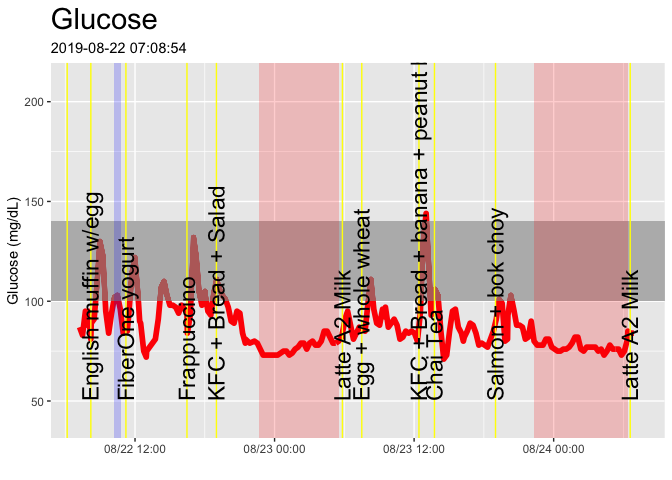
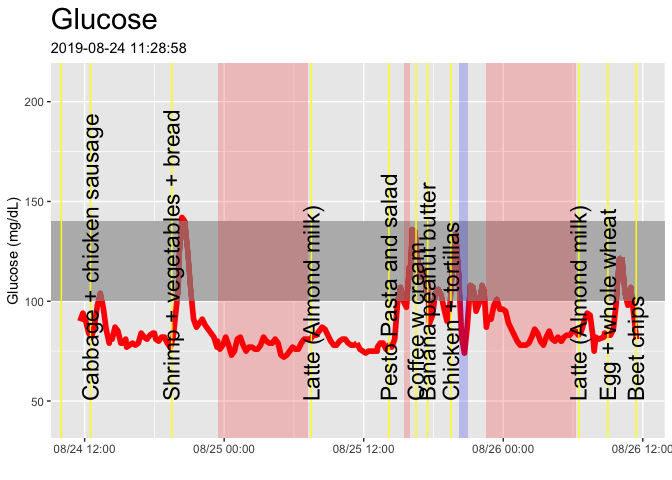
data for 2019-08-26

diff --git a/README.md b/README.md
@@ -1,7 +1,7 @@
 Continuous Glucose Monitoring with Freestyle Libre
 ================
 Richard Sprague
-2019-08-24
+2019-08-26
 
 See [Continous Glucose Monitoring: Start
 Here](http://richardsprague.com/notes/continuous-glucose-monitoring/)
@@ -164,7 +164,7 @@ glucose %>% filter(apply(sapply(glucose$time,
     ## ------------------------------------------------------------------------- 
     ## Describe . (tbl_df, tbl, data.frame):
     ## 
-    ## data.frame:  2752 obs. of  1 variables
+    ## data.frame:  2819 obs. of  1 variables
     ## 
     ##   Nr  ColName  Class    NAs  Levels
     ##   1   value    numeric  .          
@@ -174,14 +174,14 @@ glucose %>% filter(apply(sapply(glucose$time,
     ## Glucose Values While Sleeping
     ## 
     ##   length       n    NAs  unique     0s   mean  meanCI
-    ##    2'752   2'752      0      93      0  79.01   78.50
-    ##           100.0%   0.0%           0.0%          79.53
+    ##    2'819   2'819      0      93      0  79.10   78.59
+    ##           100.0%   0.0%           0.0%          79.60
     ##                                                      
     ##      .05     .10    .25  median    .75    .90     .95
-    ##    54.00   63.00  72.00   79.00  86.00  96.00  102.00
+    ##    55.00   63.00  72.50   79.00  86.00  96.00  102.00
     ##                                                      
     ##    range      sd  vcoef     mad    IQR   skew    kurt
-    ##   102.00   13.77   0.17   10.38  14.00   0.08    1.41
+    ##   102.00   13.68   0.17   10.38  13.50   0.08    1.46
     ##                                                      
     ## lowest : 40.0 (31), 41.0 (5), 42.0 (4), 43.0 (3), 44.0 (3)
     ## highest: 128.0, 129.0, 131.0 (2), 132.0 (2), 142.0
@@ -199,7 +199,7 @@ glucose %>% filter(apply(sapply(glucose$time,
     ## ------------------------------------------------------------------------- 
     ## Describe . (tbl_df, tbl, data.frame):
     ## 
-    ## data.frame:  10675 obs. of  1 variables
+    ## data.frame:  10898 obs. of  1 variables
     ## 
     ##   Nr  ColName  Class    NAs         Levels
     ##   1   value    numeric  115 (1.1%)        
@@ -209,14 +209,14 @@ glucose %>% filter(apply(sapply(glucose$time,
     ## Glucose Values While Awake
     ## 
     ##   length       n    NAs  unique      0s    mean  meanCI
-    ##   10'675  10'560    115     143       0   90.30   89.94
-    ##            98.9%   1.1%            0.0%           90.67
+    ##   10'898  10'783    115     143       0   90.27   89.91
+    ##            98.9%   1.1%            0.0%           90.63
     ##                                                        
     ##      .05     .10    .25  median     .75     .90     .95
-    ##    64.00   70.00  78.00   87.00  100.00  116.00  127.00
+    ##    64.00   70.00  78.00   87.00  100.00  115.00  127.00
     ##                                                        
     ##    range      sd  vcoef     mad     IQR    skew    kurt
-    ##   171.00   19.30   0.21   14.83   22.00    0.91    2.11
+    ##   171.00   19.21   0.21   14.83   22.00    0.92    2.14
     ##                                                        
     ## lowest : 40.0 (33), 41.0 (5), 42.0 (5), 43.0 (3), 44.0 (7)
     ## highest: 195.0, 196.0, 204.0, 207.0, 211.0 (2)
@@ -232,7 +232,7 @@ glucose %>% filter(apply(sapply(glucose$time,
     ## ------------------------------------------------------------------------- 
     ## Describe . (tbl_df, tbl, data.frame):
     ## 
-    ## data.frame:  98 obs. of  1 variables
+    ## data.frame:  101 obs. of  1 variables
     ## 
     ##   Nr  ColName  Class    NAs       Levels
     ##   1   value    numeric  1 (1.0%)        
@@ -242,14 +242,14 @@ glucose %>% filter(apply(sapply(glucose$time,
     ## Glucose Values While Exercising
     ## 
     ##   length      n    NAs  unique      0s    mean  meanCI
-    ##       98     97      1      55       0   99.69   96.08
-    ##           99.0%   1.0%            0.0%          103.30
+    ##      101    100      1      56       0   99.14   95.58
+    ##           99.0%   1.0%            0.0%          102.70
     ##                                                       
     ##      .05    .10    .25  median     .75     .90     .95
-    ##    72.80  78.00  87.00  100.00  110.00  122.40  136.00
+    ##    72.95  77.90  85.75   98.50  110.00  122.10  136.00
     ##                                                       
     ##    range     sd  vcoef     mad     IQR    skew    kurt
-    ##    79.00  17.92   0.18   17.79   23.00    0.51   -0.10
+    ##    79.00  17.96   0.18   17.05   24.25    0.54   -0.09
     ##                                                       
     ## lowest : 67.0, 69.0, 70.0, 71.0, 72.0
     ## highest: 136.0 (2), 137.0, 144.0, 145.0, 146.0

diff --git a/food_effects.md b/food_effects.md
@@ -1,7 +1,7 @@
 How specific foods affect my glucose levels
 ================
 Richard Sprague
-2019-07-27
+2019-08-26
 
 Here are my glucose levels each time I eat a particular food.
 
